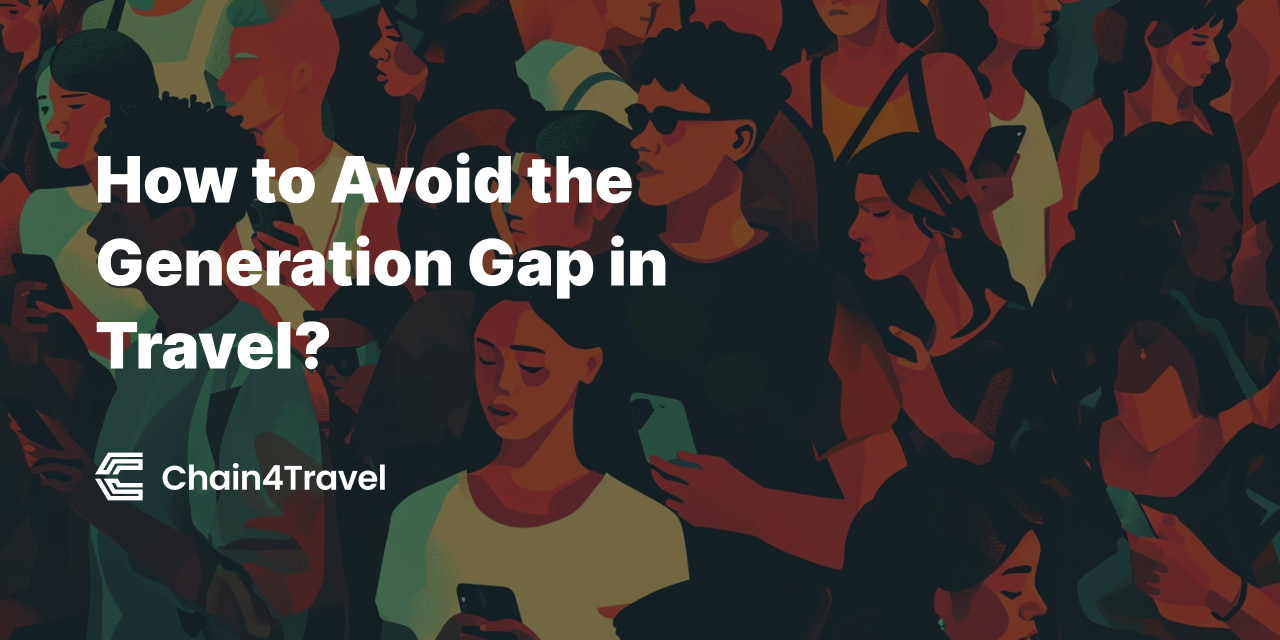
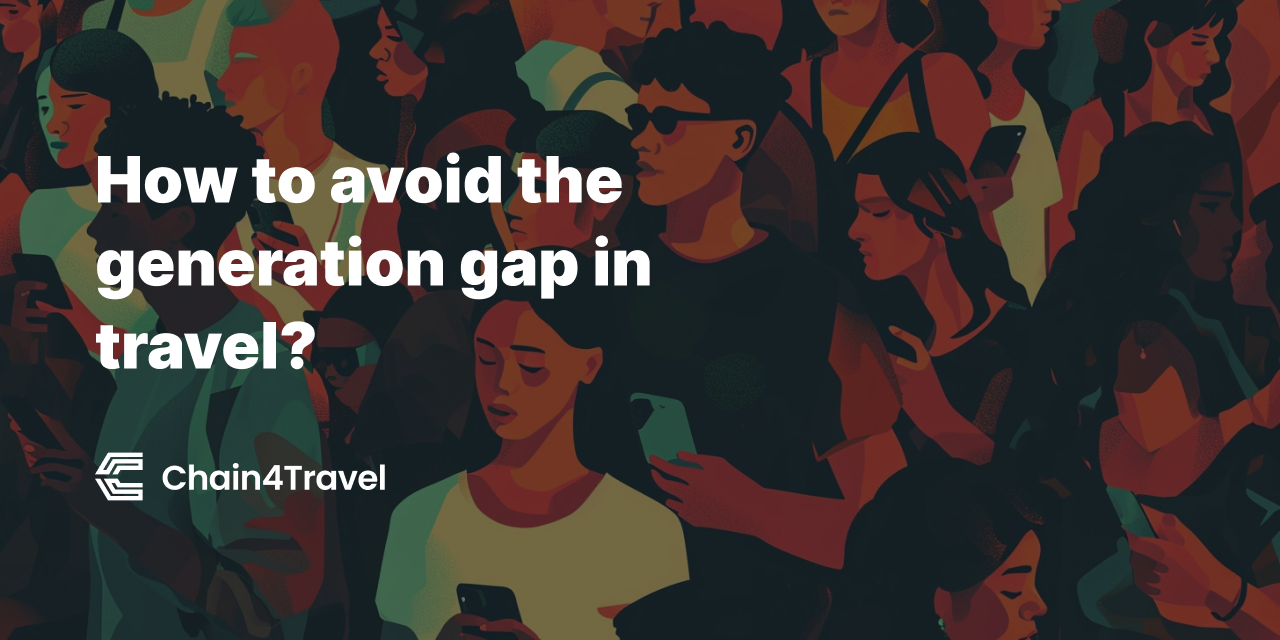
Updates for new blogpost

Changed region(s): [[0.0625, 0.3438, 0.5312, 0.4688], [0.25, 0.2188, 0.5, 0.3438], [0.0625, 0.5, 0.2812, 0.5938]]

diff --git a/src/posts/how-to-avoid-the-generation-gap-in-travel.html b/src/posts/how-to-avoid-the-generation-gap-in-travel.html
@@ -1,11 +1,11 @@
 ---
 layout: layout_blogpost
-title: How to Avoid the Generation Gap in Travel?
+title: How to avoid the generation gap in travel?
 description: This article is your map to navigating Camino Network. All new features, use cases, and important updates will be reflected in this “evergreen” article in business-friendly language. Bookmark the page to revisit.
 socialImage: social_generationgap.png
 permalink: /how-to-avoid-the-generation-gap-in-travel/
-authorslug: vincentusbeck
-authorname: Vincent Usbeck
+authorslug: vladimirnovikov
+authorname: Vladimir Novikov
 ---
 
 <div class="max-w-screen-lg px-8 md:px-4 mx-auto py-6 md:py-16 prose lg:prose-lg">
@@ -14,7 +14,7 @@ authorname: Vincent Usbeck
 
     <p>Generation Z (GenZ), in particular, seems to be a phenomenon that is often discussed at travel conferences, events, or in the media. However, most travel companies struggle to understand the new audience clearly and consequently cater the offers, products, and user experiences to these new customers.</p>
 
-    <blockquote>The solution might lie in the next iteration of the internet web3, which is accelerating rapidly. Slowly but surely, new business models are emerging, such as http://Sleap.io , which is entirely focused on serving these customers by leveraging blockchain and AI technologies.</blockquote>
+    <blockquote>The solution might lie in the next iteration of the internet web3, which is accelerating rapidly. Slowly but surely, new business models are emerging, such as <a href="http://Sleap.io" target="_blank" rel="noopener noreferrer">http://Sleap.io</a> , which is entirely focused on serving these customers by leveraging blockchain and AI technologies.</blockquote>
 
     <h2>Understanding GenZ</h2>
 
@@ -25,60 +25,60 @@ authorname: Vincent Usbeck
     <p>Below is a table with GenZ vs. Baby Boomers (born between 1946 and 1964) identity, values, fears, ideas, and habits.</p>
 
     <table>
-        <tr class="bg-gray-100">
-            <th>Aspect</th>
-            <th>Baby Boomers</th>
-            <th>Generation Z</th>
+        <tr>
+            <th class="bg-gray-200">Aspect</th>
+            <th class="bg-primary/30">Baby Boomers</th>
+            <th class="bg-secondary/30">Generation Z</th>
         </tr>
         <tr>
-            <th>Digital channels</th>
-            <td>Email, Facebook</td>
-            <td>Instagram, TikTok, Snapchat</td>
+            <th class="whitespace-nowrap">Digital channels</th>
+            <td class="bg-primary/10">Email, Facebook</td>
+            <td class="bg-secondary/10">Instagram, TikTok, Snapchat</td>
         </tr>
         <tr>
-            <th>Booking experience</th>
-            <td>Traditional travel agencies or direct booking through official websites.</td>
-            <td>Tend to book through mobile apps.</td>
+            <th class="whitespace-nowrap">Booking experience</th>
+            <td class="bg-primary/10">Traditional travel agencies or direct booking through official websites.</td>
+            <td class="bg-secondary/10">Tend to book through mobile apps.</td>
         </tr>
         <tr>
-            <th>Influence sources</th>
-            <td>Rely on travel TV shows, brochures, magazines, and word of mouth from trusted friends or colleagues.</td>
-            <td>Highly influenced by social media influencers, peer reviews, and viral content.</td>
+            <th class="whitespace-nowrap">Influence sources</th>
+            <td class="bg-primary/10">Rely on travel TV shows, brochures, magazines, and word of mouth from trusted friends or colleagues.</td>
+            <td class="bg-secondary/10">Highly influenced by social media influencers, peer reviews, and viral content.</td>
         </tr>
         <tr>
-            <th>Decision making</th>
-            <td>Decisions are often influenced by security, comfort, convenience, and value for money.</td>
-            <td>Decisions depend on unique experiences, personalization, and social media trends.</td>
+            <th class="whitespace-nowrap">Decision making</th>
+            <td class="bg-primary/10">Decisions are often influenced by security, comfort, convenience, and value for money.</td>
+            <td class="bg-secondary/10">Decisions depend on unique experiences, personalization, and social media trends.</td>
         </tr>
         <tr>
-            <th>Content engagement</th>
-            <td>Engage with detailed articles, reviews, and emails.</td>
-            <td>Prefer engaging with visual content like photos, short videos, and interactive stories.</td>
+            <th class="whitespace-nowrap">Content engagement</th>
+            <td class="bg-primary/10">Engage with detailed articles, reviews, and emails.</td>
+            <td class="bg-secondary/10">Prefer engaging with visual content like photos, short videos, and interactive stories.</td>
         </tr>
         <tr>
-            <th>Travel inspiration</th>
-            <td>Inspired by bucket lists, historical landmarks, and classic vacation spots.</td>
-            <td>Seeks off-the-beaten-path experiences, adventure travel, and destinations that perform well on social media.</td>
+            <th class="whitespace-nowrap">Travel inspiration</th>
+            <td class="bg-primary/10">Inspired by bucket lists, historical landmarks, and classic vacation spots.</td>
+            <td class="bg-secondary/10">Seeks off-the-beaten-path experiences, adventure travel, and destinations that perform well on social media.</td>
         </tr>
         <tr>
-            <th>Technology use</th>
-            <td>Comfortable with basic online functionalities and hesitant about new tech.</td>
-            <td>Digital natives, highly adaptable to new technologies and platforms.</td>
+            <th class="whitespace-nowrap">Technology use</th>
+            <td class="bg-primary/10">Comfortable with basic online functionalities and hesitant about new tech.</td>
+            <td class="bg-secondary/10">Digital natives, highly adaptable to new technologies and platforms.</td>
         </tr>
         <tr>
-            <th>Social media behavior</th>
-            <td>Passive consumption of content; less likely to share personal experiences widely.</td>
-            <td>Active content creators and sharers using platforms to document and share their travel experiences.</td>
+            <th class="whitespace-nowrap">Social media behavior</th>
+            <td class="bg-primary/10">Passive consumption of content; less likely to share personal experiences widely.</td>
+            <td class="bg-secondary/10">Active content creators and sharers using platforms to document and share their travel experiences.</td>
         </tr>
         <tr>
-            <th>Value proposition</th>
-            <td>Values straightforward, reliable information and traditional loyalty programs.</td>
-            <td>Look for authenticity, sustainability, and customizable experiences.</td>
+            <th class="whitespace-nowrap">Value proposition</th>
+            <td class="bg-primary/10">Values straightforward, reliable information and traditional loyalty programs.</td>
+            <td class="bg-secondary/10">Look for authenticity, sustainability, and customizable experiences.</td>
         </tr>
         <tr>
-            <th>Customer service</th>
-            <td>Prefers phone calls and face-to-face interactions for inquiries and bookings.</td>
-            <td>Favors instant messaging, chatbots, and social media for quick answers and bookings.</td>
+            <th class="whitespace-nowrap">Customer service</th>
+            <td class="bg-primary/10">Prefers phone calls and face-to-face interactions for inquiries and bookings.</td>
+            <td class="bg-secondary/10">Favors instant messaging, chatbots, and social media for quick answers and bookings.</td>
         </tr>
     </table>
 
@@ -98,7 +98,7 @@ authorname: Vincent Usbeck
 
     <p>But what is <a href="https://www.forbes.com/sites/forbesbusinesscouncil/2022/06/29/what-is-the-appeal-of-web3-for-gen-z/" target="_blank" rel="noopener noreferrer">the appeal of web3 for GenZ</a>? It lies in three short words: read, write, own. The third chapter of the Internet provides users with control over data and identity. Unlike social media applications, we all are used to web3 applications, which can be accessed with digital wallets that carry the user's digital identity and any information they are willing to share. If you really would like to dive deep into the topic, there is a fresh <a href="https://readwriteown.com/" target="_blank" rel="noopener noreferrer">book</a> about the philosophy behind web3 to read.</p>
 
-    <p>With this new way of connectivity come new opportunities to personalize offers at scale. For example, "proof of attendance" at live events. With digital wallets and NFTs (non-fungible tokens), brands can share loyalty points with all regular attendees by just "airdropping" the tokens based on the number of events they attend. These relations are programmable and can be executed when certain conditions are met.</p>
+    <p>With this new way of connectivity come new opportunities to personalize offers at scale. For example, "proof of attendance" at live events. With digital wallets and <a href="https://chain4travel.com/nfts-arent-just-digital-monkeys-heres-what-they-can-do-for-travel/" target="_blank" rel="noopener noreferrer">NFTs (non-fungible tokens)</a>, brands can share loyalty points with all regular attendees by just "airdropping" the tokens based on the number of events they attend. These relations are programmable and can be executed when certain conditions are met.</p>
 
     <blockquote>If this all sounds too complicated, this is a proper indicator for you to get in touch with our team and discuss the web3 strategy for your travel brand.</blockquote>
 
@@ -130,5 +130,5 @@ authorname: Vincent Usbeck
 
     <p>Although this article entirely focuses on Gen Z, they are not better or worse than other generations of travelers. But they are the most «different» and the most digitally immersed cohort currently active in travel. Their unique characteristics and preferences shape travel businesses’ new horizons and challenges. However, all other generations and cohorts of customers absolutely deserve attention, tailored products, and tuned communication. Let’s wisely use emerging solutions to bridge gaps, not just between digital and traditional practices but also among the varying expectations of different age groups, ensuring that everyone feels valued and understood.</p>
 
-    <p>Therefore, we, as Chain4Travel, being a part of the web3 travel ecosystem, clearly see the need for a community-driven and inclusive approach to developing new products. If you would like to contribute and bridge the generational gap in travel technologies, you are invited to join the community. Together, we can shape the future of travel, a future rooted in transparency, open-source innovation, and trust.</p>
+    <p>Therefore, we, as Chain4Travel, being a part of the web3 travel ecosystem, clearly see the need for a community-driven and inclusive approach to developing new products. If you would like to contribute and bridge the generational gap in travel technologies, you are invited to <a href="https://bento.me/caminonetwork" target="_blank" rel="noopener noreferrer">join the community</a>. Together, we can shape the future of travel, a future rooted in transparency, open-source innovation, and trust.</p>
 </div>
